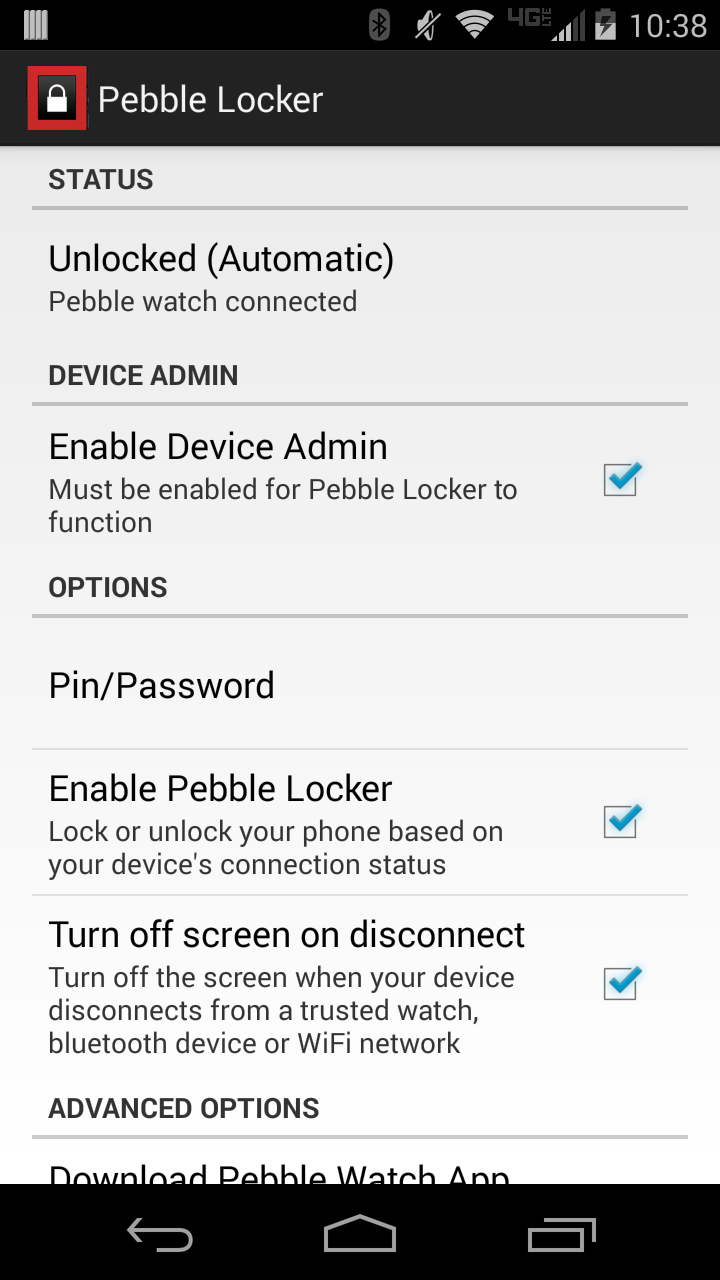
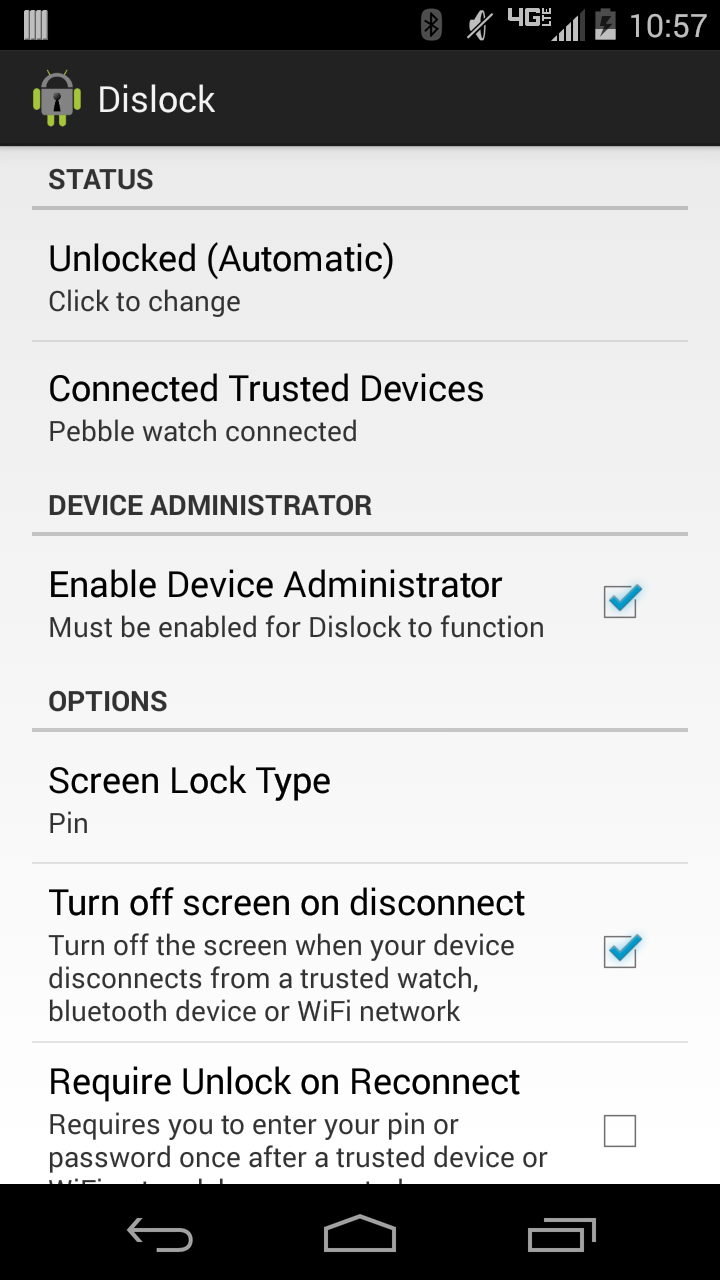
Rename Pebble Locker to Dislock

diff --git a/pebble-locker-android/pebblelocker/src/main/java/com/lukekorth/pebblelocker/logging/LogReporting.java b/pebble-locker-android/pebblelocker/src/main/java/com/lukekorth/pebblelocker/logging/LogReporting.java
@@ -73,7 +73,7 @@ public class LogReporting {
             message.append("Minimum numeric in password: " + dpm.getPasswordMinimumNumeric(null) + "\n");
             message.append("Minimum symbols in password: " + dpm.getPasswordMinimumSymbols(null) + "\n");
             message.append("Minimum upper case letters in password: " + dpm.getPasswordMinimumUpperCase(null) + "\n");
-            message.append("Pebble Locker password length: " + prefs.getString("key_password", "").length() + "\n");
+            message.append("Dislock password length: " + prefs.getString("key_password", "").length() + "\n");
 			message.append("Encryption status: " + dpm.getStorageEncryptionStatus() + "\n");
             message.append("Device rooted: " + isDeviceRooted() + "\n");
             message.append("Debug: " + BuildConfig.DEBUG + "\n");
@@ -189,7 +189,7 @@ public class LogReporting {
         private File getFile() {
             File emailableLogsDir  = new File(mContext.getFilesDir(), "emailable_logs");
             emailableLogsDir.mkdir();
-            return new File(emailableLogsDir, "pebble-locker.log.gz");
+            return new File(emailableLogsDir, "dislock.log.gz");
         }
 
         private void buildEmailIntent(File file) {
@@ -197,8 +197,8 @@ public class LogReporting {
 
             mEmailIntent = new Intent(Intent.ACTION_SEND);
 		    mEmailIntent.setType("text/plain");
-            mEmailIntent.putExtra(android.content.Intent.EXTRA_EMAIL, new String[]{ "pebble-locker@lukekorth.com" });
-            mEmailIntent.putExtra(Intent.EXTRA_SUBJECT, "Pebble Locker Debug Log");
+            mEmailIntent.putExtra(android.content.Intent.EXTRA_EMAIL, new String[]{ "dislock@lukekorth.com" });
+            mEmailIntent.putExtra(Intent.EXTRA_SUBJECT, "Dislock Debug Log");
 		    mEmailIntent.putExtra(Intent.EXTRA_STREAM, fileUri);
 
             // grant permissions for all apps that can handle given intent

diff --git a/pebble-locker-android/pebblelocker/src/main/java/com/lukekorth/pebblelocker/Locker.java b/pebble-locker-android/pebblelocker/src/main/java/com/lukekorth/pebblelocker/Locker.java
@@ -118,7 +118,7 @@ public class Locker {
             if (needToTurnOffScreen) {
                 mLogger.debug("Waking screen because it was on when unlock started");
                 PowerManager.WakeLock wakeLock = ((PowerManager) mContext.getSystemService(Context.POWER_SERVICE))
-                        .newWakeLock(PowerManager.SCREEN_DIM_WAKE_LOCK | PowerManager.ACQUIRE_CAUSES_WAKEUP, "PebbleLocker-Locker");
+                        .newWakeLock(PowerManager.SCREEN_DIM_WAKE_LOCK | PowerManager.ACQUIRE_CAUSES_WAKEUP, "Dislock-Locker");
                 wakeLock.acquire();
                 wakeLock.release();
             }

diff --git a/pebble-locker-android/pebblelocker/src/main/java/com/lukekorth/pebblelocker/PebbleLocker.java b/pebble-locker-android/pebblelocker/src/main/java/com/lukekorth/pebblelocker/PebbleLocker.java
@@ -85,7 +85,7 @@ public class PebbleLocker extends PremiumFeaturesActivity
         startService(new Intent(this, AndroidWearDetectionService.class));
 
         AppRate.with(this)
-                .text("Rate Pebble Locker")
+                .text(R.string.rate)
                 .initialLaunchCount(3)
                 .retryPolicy(RetryPolicy.EXPONENTIAL)
                 .checkAndShow();

diff --git a/README.md b/README.md
@@ -1,9 +1,9 @@
-Pebble Locker
+Dislock
 =============
 
 [![Travis Build Status](https://travis-ci.org/lkorth/pebble-locker.svg?branch=master)](https://travis-ci.org/lkorth/pebble-locker)
 
-Pebble Locker makes use of the [Device Administration API](http://developer.android.com/guide/topics/admin/device-admin.html) to control Android's lock screen. 
+Dislock makes use of the [Device Administration API](http://developer.android.com/guide/topics/admin/device-admin.html) to control Android's lock screen.
 Enjoy the use of your Android without a lock screen when your Pebble watch, selected Bluetooth devices or Wifi networks are connected and the security 
 of a lock screen when you walk away causing your Pebble, other Bluetooth devices or Wifi networks to disconnect.
 
@@ -11,21 +11,21 @@ Available on the [Play Store](https://play.google.com/store/apps/details?id=com.
 
 ## Device Support
 
-Pebble Locker supports:
+Dislock supports:
 * Pebble watches
 * Bluetooth devices that maintain a constant connection and show up in your list of paired devices
 * Android Wear
 * Wifi networks (by SSID, multiple APs with the same SSID will be detected as a single network)
 * Android devices using the built in VPN client
 
-Pebble Locker *does not* support:
+Dislock *does not* support:
 * Bluetooth 4 (LE) devices like Fitbits
 * Android devices that are encrypted or have other apps that require a pin or password to be set
 * Pattern lock
 
 ## Uninstalling
 
-To uninstall you must deactivate Pebble Locker as a device admin either in Pebble Locker or in your device's menu. You may or may not need to reboot.
+To uninstall you must deactivate Dislock as a device admin either in Dislock or in your device's menu. You may or may not need to reboot.
 
 ## FAQ
 
@@ -39,4 +39,4 @@ Read more and comment on the [blog post](http://lukekorth.com/blog/pebble-locker
 
 ## License
 
-Pebble Locker is open source and available under the MIT license. See the [LICENSE](LICENSE) file for more info.
+Dislock is open source and available under the MIT license. See the [LICENSE](LICENSE) file for more info.
